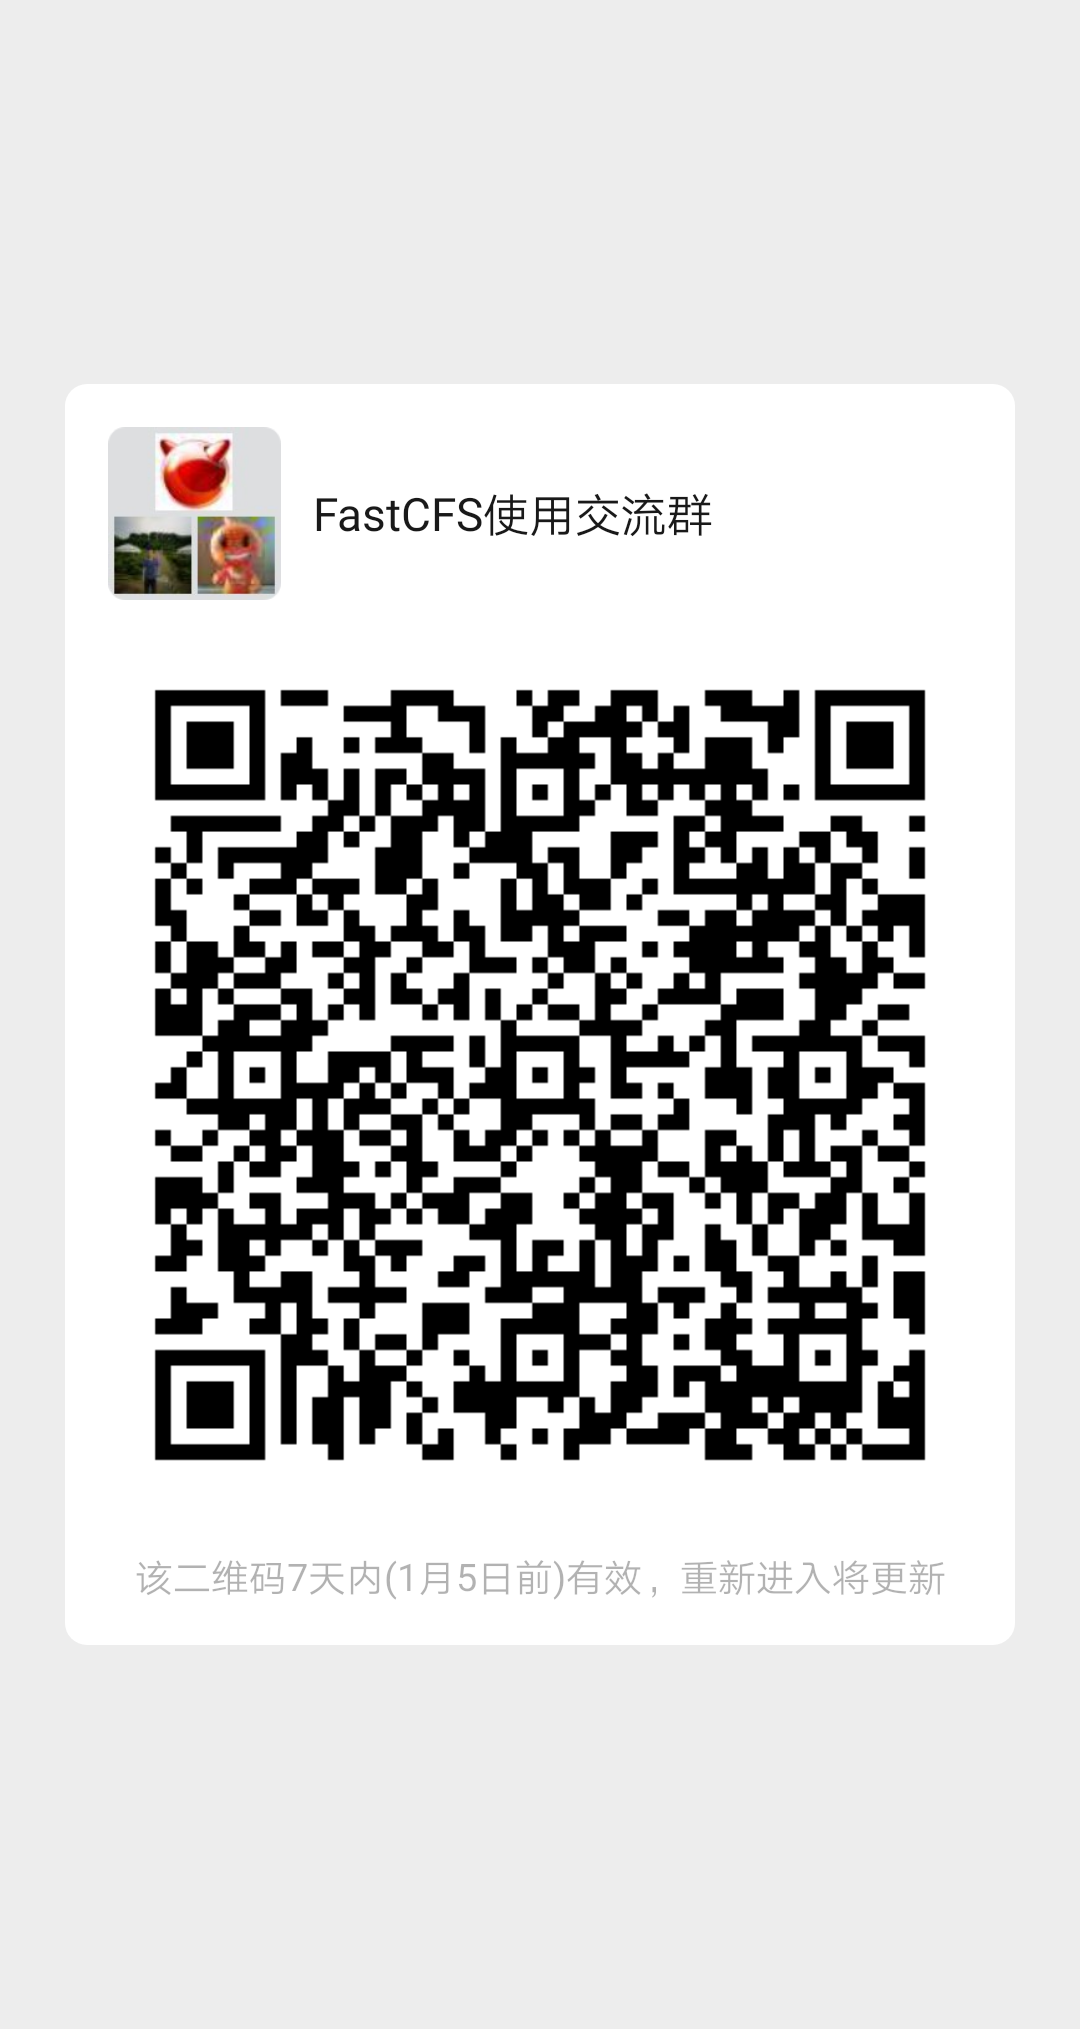
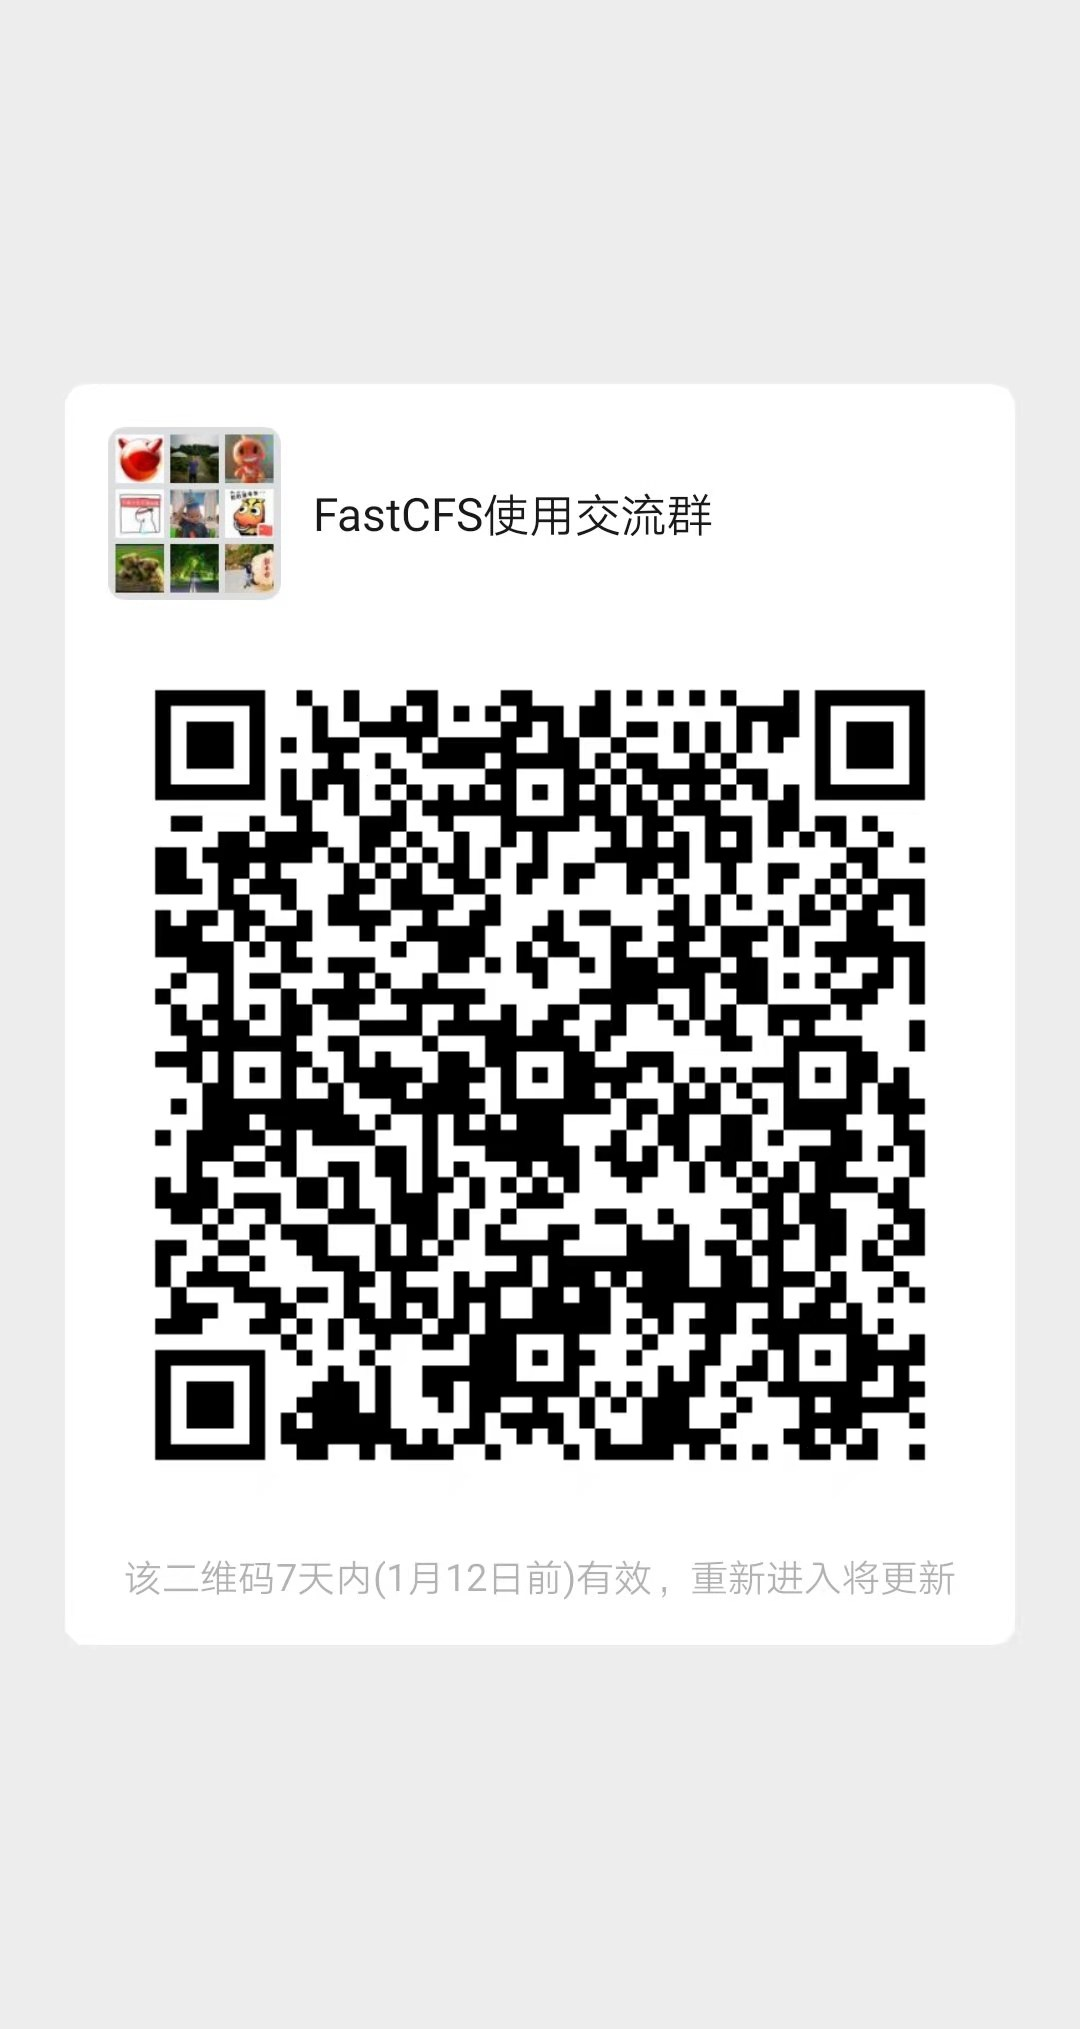
images/wechat_group.png refreshed

diff --git a/README.md b/README.md
@@ -1,5 +1,7 @@
 # FastCFS -- a high performance cloud native distributed file system for databases
 
+Chinese language please click: [README in Chinese](README-zh_CN.md)
+
 ## 1. About
 
 FastCFS is a block based standard file system which can be used as the back-end storage of databases, such as MySQL, PostgresSQL, Oracle etc.
